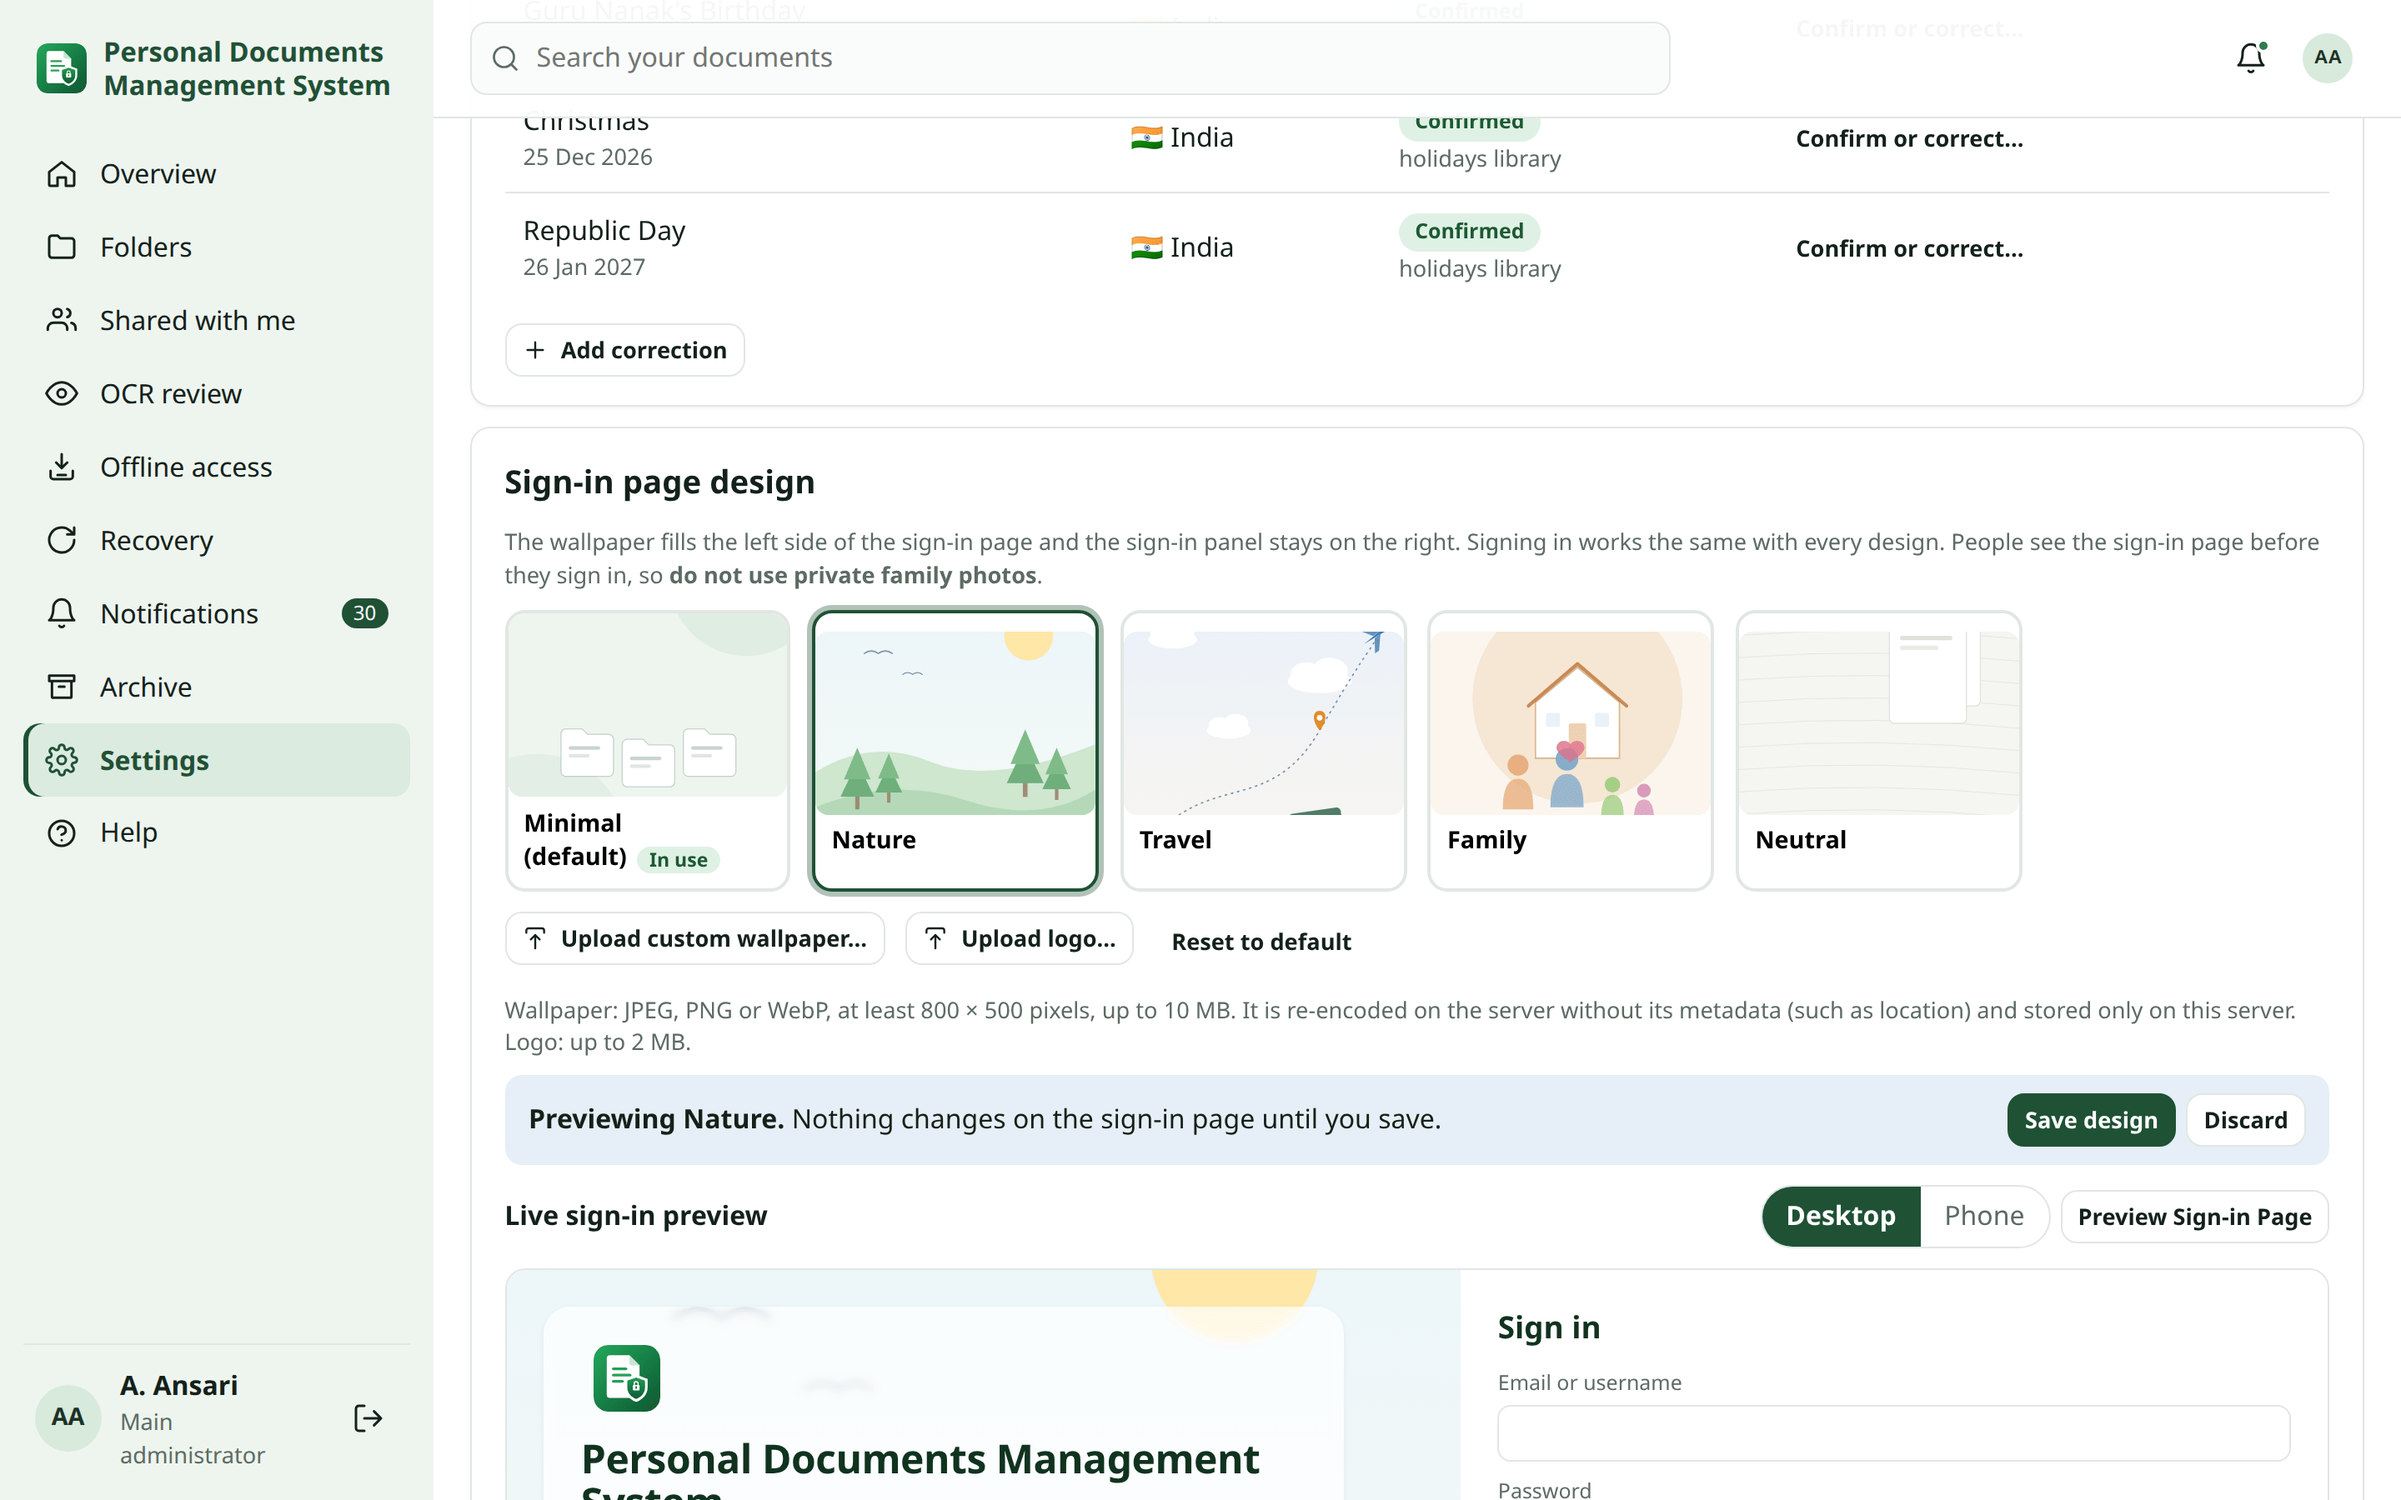
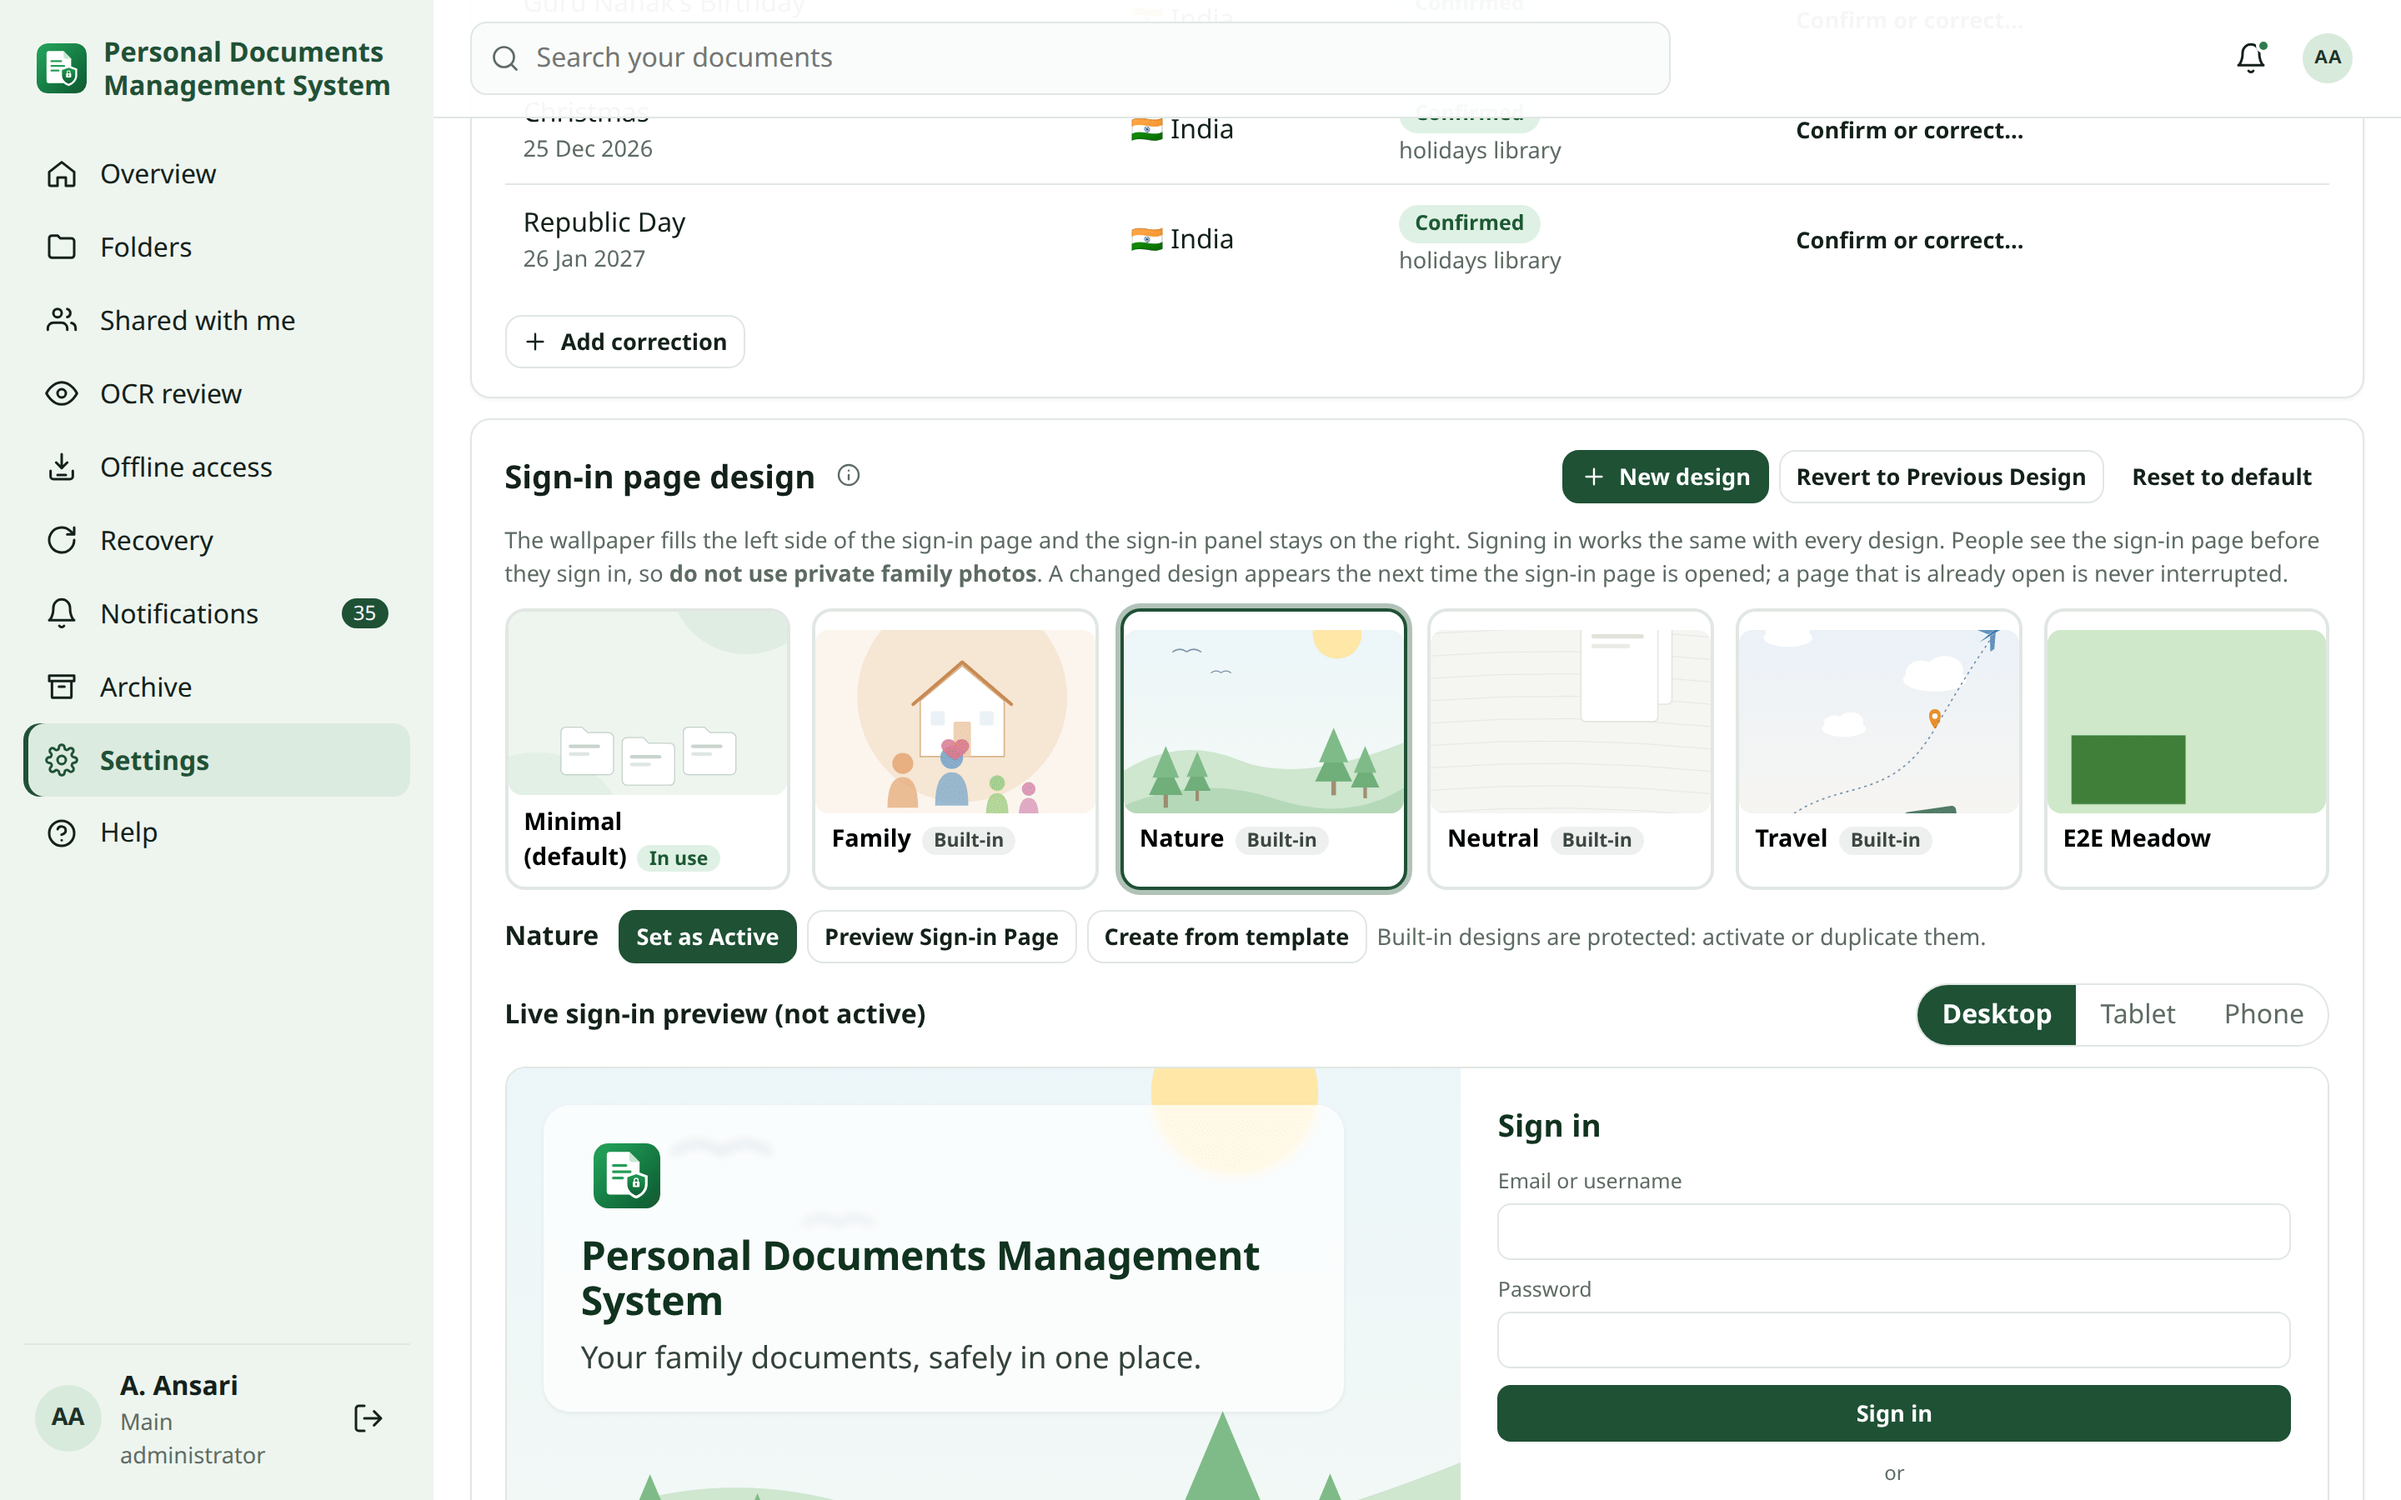
Change Set W: reviewed design screenshots (designs, editor) and test report

diff --git a/docs/TEST_REPORT.md b/docs/TEST_REPORT.md
@@ -56,6 +56,55 @@ The end-to-end flow covers: the setup wizard creating the Main Administrator (de
 
 Screenshots of the real application with synthetic data are in `docs/screenshots/`.
 
+## Change set W: named sign-in designs and rotation, complete details and IPs, Notification Detail Level {#change-set-w}
+
+**Numbering.** The change prompt numbered its tests AT-351…AT-375. Here they are **AT-376…AT-400** (prompt AT-n →
+AT-(n+25)). Per-scenario status: [TRACEABILITY.md](TRACEABILITY.md#change-set-w). Root causes:
+[IMPLEMENTATION_STATUS.md](IMPLEMENTATION_STATUS.md#change-set-w).
+
+**Environment.** Development container (Ubuntu 24.04, PostgreSQL 16, Python 3.13, Node 22, Chromium via Playwright),
+2026-10-15. No real Email, Telegram, WhatsApp, Discord or Web Push accounts and no production address. Wallpapers in
+the tests and screenshots are drawn in the browser or generated with Pillow; no photos.
+
+| Command | Result |
+|---|---|
+| `pytest tests/test_corrective_w.py` | **28 passed** |
+| Full `pytest` | FULL_PYTEST |
+| `scripts/e2e.sh` (fresh database, final run) | **158 PASS, 0 FAIL** (exit 0): flow; accessibility in every theme; parity and layout (7 viewports); offline; PWA; themes; recovery; **corrective 32** (incl. Change Set W: new design → wallpaper → focal point → Set as Active → public sign-in page uses the design with a light palette → Revert; rotation pool, status card, Preview Rotation, single-design pool refused, family member refused; Notification detail per person); **screenshots 8** |
+| `npm run build` (TypeScript check and production build) | Passed |
+| `python3 scripts/check_docs.py` | **OK** |
+| `scripts/privacy_check.sh` | **OK** |
+
+**Blocked / Not Executed** (never reported as passed):
+
+- Delivery of Full and Minimal notifications to real Email, Telegram, WhatsApp, Discord and Web Push accounts (no
+  accounts here). Every channel uses the same renderer, which is covered per channel by `test_rich_notifications.py`,
+  `test_notification_policy.py`, `test_expiry.py`, `test_events.py` and CW AT-398/AT-399.
+- A production smoke test after `sudo personaldocs upgrade` (no production installation here); see
+  [upgrades](guides/upgrades.md#change-set-w) and [RELEASE_CHECKLIST.md](RELEASE_CHECKLIST.md).
+- Firefox and Safari.
+
+**Prior suites.** Every earlier backend test file and browser suite ran in the runs above. Tests that asserted the old
+masking (document numbers, names and IP addresses in notifications and sign-in views) were changed to assert the
+complete values for authorised people and the Minimal Details summary; their checks that secrets never appear were
+kept.
+
+**Defects found while testing, all fixed:**
+
+- The notification preferences page ran about 7,300 queries (≈ 21 s on the test server): every event recomputed
+  every event's defaults. A matrix toggle looked as if it did not stick until the slow reload returned (found by
+  parity AT-68; this predates Change Set W). Now about 380 queries (0.6 s); regression test in
+  `test_notification_policy.py`.
+- The sign-in preview showed "Sign in with Sign in with authentik": the configured button label already contains the
+  words. The preview now shows the label as the real sign-in page does.
+- In the narrow Desktop preview of the design editor the title broke inside a word. Narrow previews now scale their
+  text.
+- Replacing the active design's wallpaper left the old original file behind; backups held only the legacy wallpaper
+  and logo; a broken rotation pool could retry on every scheduler tick; the rotation audit entry failed on a reserved
+  argument name. All fixed with tests (CW AT-383/AT-384/AT-388/AT-389).
+- The parity test expected the Text (OCR) tab to stay open after recognition; Change Set W opens Details by itself, so
+  the test now checks that and then reads the confidence on the OCR tab.
+
 ## Change set V: NAS in Backup Destinations, English sign-in map, tooltips, Help permissions, WhatsApp pairing {#change-set-v}
 
 **Numbering.** The change prompt numbered its tests AT-331…AT-350. Here they are **AT-356…AT-375** (prompt AT-n →
